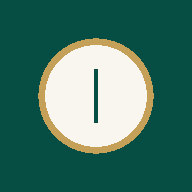
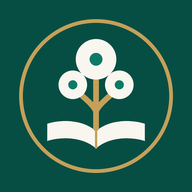
Add files via upload

diff --git a/index.html b/index.html
@@ -3,7 +3,7 @@
 <head>
 <meta charset="UTF-8">
 <meta name="viewport" content="width=device-width, initial-scale=1, viewport-fit=cover">
-<link rel="manifest" href="manifest.json"><meta name="theme-color" content="#064E43"><link rel="apple-touch-icon" href="icon-192.png">
+<link rel="manifest" href="manifest.json"><link rel="icon" href="icon-192.png"><meta name="theme-color" content="#064E43"><link rel="apple-touch-icon" href="icon-192.png">
 <title>بُستاننا — رحلة العائلة مع كتاب الله</title>
 <link href="https://fonts.googleapis.com/css2?family=Tajawal:wght@400;500;700;800&family=Amiri+Quran&display=swap" rel="stylesheet">
 <style>
@@ -63,6 +63,8 @@ textarea{width:100%;min-height:110px;border-radius:12px;border:1px solid var(--b
 .ov{position:fixed;inset:0;background:rgba(0,0,0,.5);z-index:40;display:grid;place-items:center;padding:20px}
 .ov .c{max-width:340px;display:grid;gap:14px}.ov .row{justify-content:flex-end}
 #toast{position:fixed;top:calc(env(safe-area-inset-top,0px) + 70px);left:50%;transform:translateX(-50%);background:var(--pri);color:#fff;border:1px solid var(--gold);padding:8px 20px;border-radius:99px;font-size:calc(13px*var(--f,1));z-index:50;display:none}
+.logo svg{width:68%;height:68%}
+.hl{width:36px;height:36px;display:block;flex:none;border-radius:50%;background:rgba(255,255,255,.08)}.hl svg{width:100%;height:100%;padding:4px}
 .cp{text-align:center;font-size:calc(12px*var(--f,1));color:var(--mut);padding:8px 4px}
 .warn{background:#fff3cd;color:#5c4400;border-radius:12px;padding:10px 14px;font-size:calc(13px*var(--f,1))}
 </style>
@@ -80,6 +82,7 @@ const fmt=s=>{const[y,m,d]=s.split("-").map(Number);return new Date(y,m-1,d).toL
 const bar=p=>`<div class="bar"><i style="width:${Math.min(100,p)}%"></i></div>`;
 const def=()=>({on:0,r:{},plan:5,act:{},last:null});
 const esc=x=>String(x).replace(/[&<>"']/g,c=>({"&":"&amp;","<":"&lt;",">":"&gt;",'"':"&quot;","'":"&#39;"}[c]));
+const LG='<svg viewBox="100 100 312 312"><g fill="#F8F6EF"><path d="M256 396C226 368 170 362 126 376L126 330C170 316 226 322 256 350Z"/><path d="M256 396C286 368 342 362 386 376L386 330C342 316 286 322 256 350Z"/></g><path d="M256 350L256 396" stroke="#C5A059" stroke-width="6"/><g fill="none" stroke="#C5A059" stroke-width="15" stroke-linecap="round"><path d="M256 342L256 214"/><path d="M256 296C244 274 224 262 208 244"/><path d="M256 296C268 274 288 262 304 244"/></g><g fill="#F8F6EF"><circle cx="256" cy="158" r="54"/><circle cx="194" cy="226" r="38"/><circle cx="318" cy="226" r="38"/></g><g fill="#0D7A68"><circle cx="256" cy="158" r="17"/><circle cx="194" cy="226" r="12"/><circle cx="318" cy="226" r="12"/></g></svg>';
 const uid=()=>"p"+Date.now().toString(36)+Math.floor(Math.random()*1e4).toString(36);
 const mk=nm=>({n:nm,pin:"",d:def()});
 let mem=false;
@@ -211,9 +214,9 @@ function render(keep){fz();
  if(V.t==="det"&&cur()&&S.lo!==V.s){S.lo=V.s;S.rc=[V.s].concat((S.rc||[]).filter(x=>x!==V.s)).slice(0,5);save()}
  if(!keep&&nk()!==NAV){NAV=nk();try{history.pushState(hs(),"")}catch(e){}}const y=scrollY,st=stats(),onb=V.t==="onb";
  let h="";
- if(LK){const o=Object.keys(DB.ps).filter(i=>i!==DB.cur).map(i=>`<button class="b" data-x="sw" data-id="${i}">${esc(DB.ps[i].n)}${DB.ps[i].pin?" 🔒":""}</button>`).join("");h=`<main><div class="onb"><div class="logo">🔒</div><h1>${esc(cur().n)}</h1><input class="q" id="lp" type="password" inputmode="numeric" placeholder="أدخل الرمز" style="max-width:240px;text-align:center"><button class="b bp big" data-x="pu">فتح</button>${o?"<small>أو انتقل إلى:</small>"+o:""}</div></main>`}else if(onb)h=`<main><div class="onb"><div class="logo">📖</div><h1>بُستاننا</h1><b class="gd">رحلة العائلة مع كتاب الله</b><p class="mu">تتبّع حفظك آيةً آيةً، وراجع محفوظك بجدول مراجعة تلقائي.</p><input class="q" id="nm" placeholder="اسمك" maxlength="20" style="max-width:260px;text-align:center"><button class="b bp big" data-x="start">ابدأ رحلتك المباركة</button><footer class="cp">© ٢٠٢٦ أبو بكر — بُستاننا: رحلة العائلة مع كتاب الله. جميع الحقوق محفوظة.</footer></div></main>`;
+ if(LK){const o=Object.keys(DB.ps).filter(i=>i!==DB.cur).map(i=>`<button class="b" data-x="sw" data-id="${i}">${esc(DB.ps[i].n)}${DB.ps[i].pin?" 🔒":""}</button>`).join("");h=`<main><div class="onb"><div class="logo">🔒</div><h1>${esc(cur().n)}</h1><input class="q" id="lp" type="password" inputmode="numeric" placeholder="أدخل الرمز" style="max-width:240px;text-align:center"><button class="b bp big" data-x="pu">فتح</button>${o?"<small>أو انتقل إلى:</small>"+o:""}</div></main>`}else if(onb)h=`<main><div class="onb"><div class="logo">${LG}</div><h1>بُستاننا</h1><b class="gd">رحلة العائلة مع كتاب الله</b><p class="mu">تتبّع حفظك آيةً آيةً، وراجع محفوظك بجدول مراجعة تلقائي.</p><input class="q" id="nm" placeholder="اسمك" maxlength="20" style="max-width:260px;text-align:center"><button class="b bp big" data-x="start">ابدأ رحلتك المباركة</button><footer class="cp">© ٢٠٢٦ أبو بكر — بُستاننا: رحلة العائلة مع كتاب الله. جميع الحقوق محفوظة.</footer></div></main>`;
  else{const tabs=[["home","🏠","الرئيسية"],["sur","📚","الفهرس"],["rev","🔁","المراجعة"],["plan","🗓","الخطة"],["sta","📊","التقارير"]],ct=(V.t==="det"||V.t==="rg")?"sur":(V.t==="quiz"||V.t==="hal")?"home":V.t;
-  h=`<header><div class="hi"><div><h1>بُستاننا</h1><small>رحلة العائلة مع كتاب الله</small></div><div class="row"><button class="pill" data-x="go" data-v="fam">👤 ${esc(cur().n)}</button><span class="pill">🔥 ${n(st.c)} أيام</span><button class="ib" data-x="go" data-v="set" aria-label="الإعدادات">⚙</button></div></div></header>
+  h=`<header><div class="hi"><div class="row" style="gap:10px;justify-content:flex-start"><span class="hl">${LG}</span><div><h1>بُستاننا</h1><small>رحلة العائلة مع كتاب الله</small></div></div><div class="row"><button class="pill" data-x="go" data-v="fam">👤 ${esc(cur().n)}</button><span class="pill">🔥 ${n(st.c)} أيام</span><button class="ib" data-x="go" data-v="set" aria-label="الإعدادات">⚙</button></div></div></header>
   <main>${mem?'<div class="warn">التخزين غير متاح في هذا المتصفح، لن تبقى بياناتك بعد الإغلاق. استخدم التصدير من الإعدادات.</div>':""}${view(st)}<footer class="cp">© ٢٠٢٦ أبو بكر — بُستاننا: رحلة العائلة مع كتاب الله. جميع الحقوق محفوظة.</footer></main>
   <nav><div class="ni">${tabs.map(([k,i,l])=>`<button class="${ct===k?"on":""}" data-x="go" data-v="${k}"><span>${i}</span>${l}</button>`).join("")}</div></nav>`}
  if(M&&M.ap)h+=`<div class="ov"><div class="c"><b>رمز الأب مطلوب لإدارة الأسرة</b><input class="q" id="pi" type="password" inputmode="numeric" placeholder="رمز الأب"><div class="row"><button class="b" data-x="no">إلغاء</button><button class="b bp" data-x="apu">تأكيد</button></div></div></div>`;else if(M&&M.pin)h+=`<div class="ov"><div class="c"><b>رمز الدخول (٤ إلى ٨ أرقام)</b><input class="q" id="pi" type="password" inputmode="numeric" placeholder="اتركه فارغًا لإزالة الرمز"><div class="row"><button class="b" data-x="no">إلغاء</button><button class="b bp" data-x="pset">حفظ</button></div></div></div>`;else if(M)h+=`<div class="ov"><div class="c"><div>${M.msg}</div><div class="row"><button class="b" data-x="no">إلغاء</button><button class="b bd" data-x="yes">تأكيد</button></div></div></div>`;
